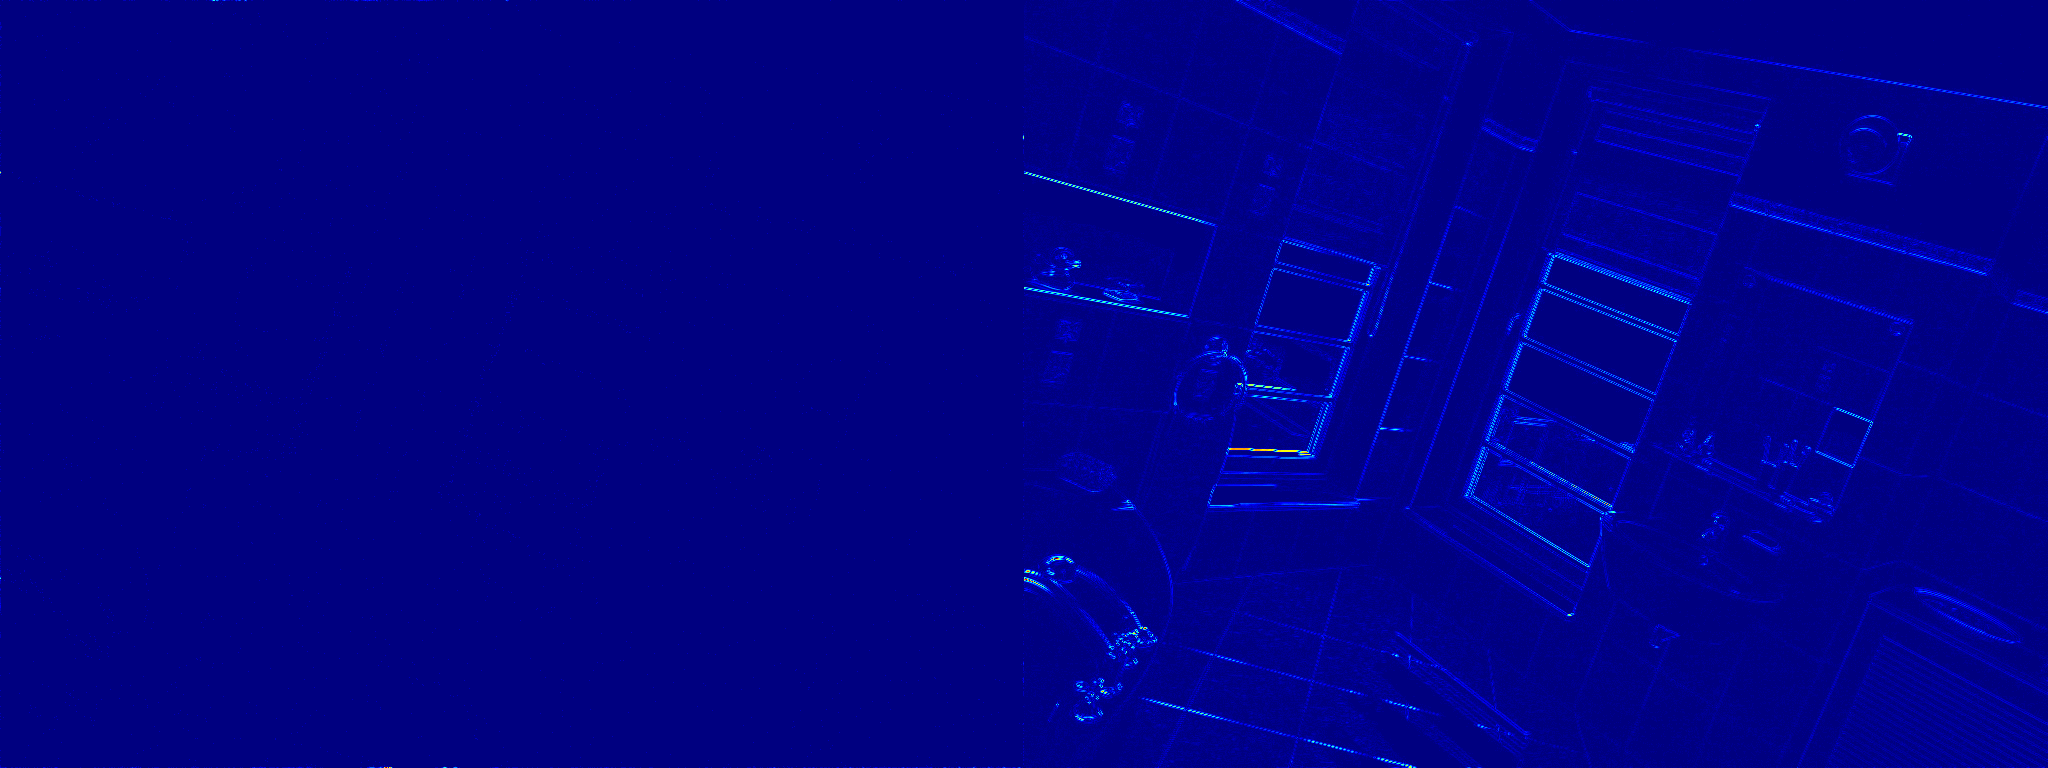
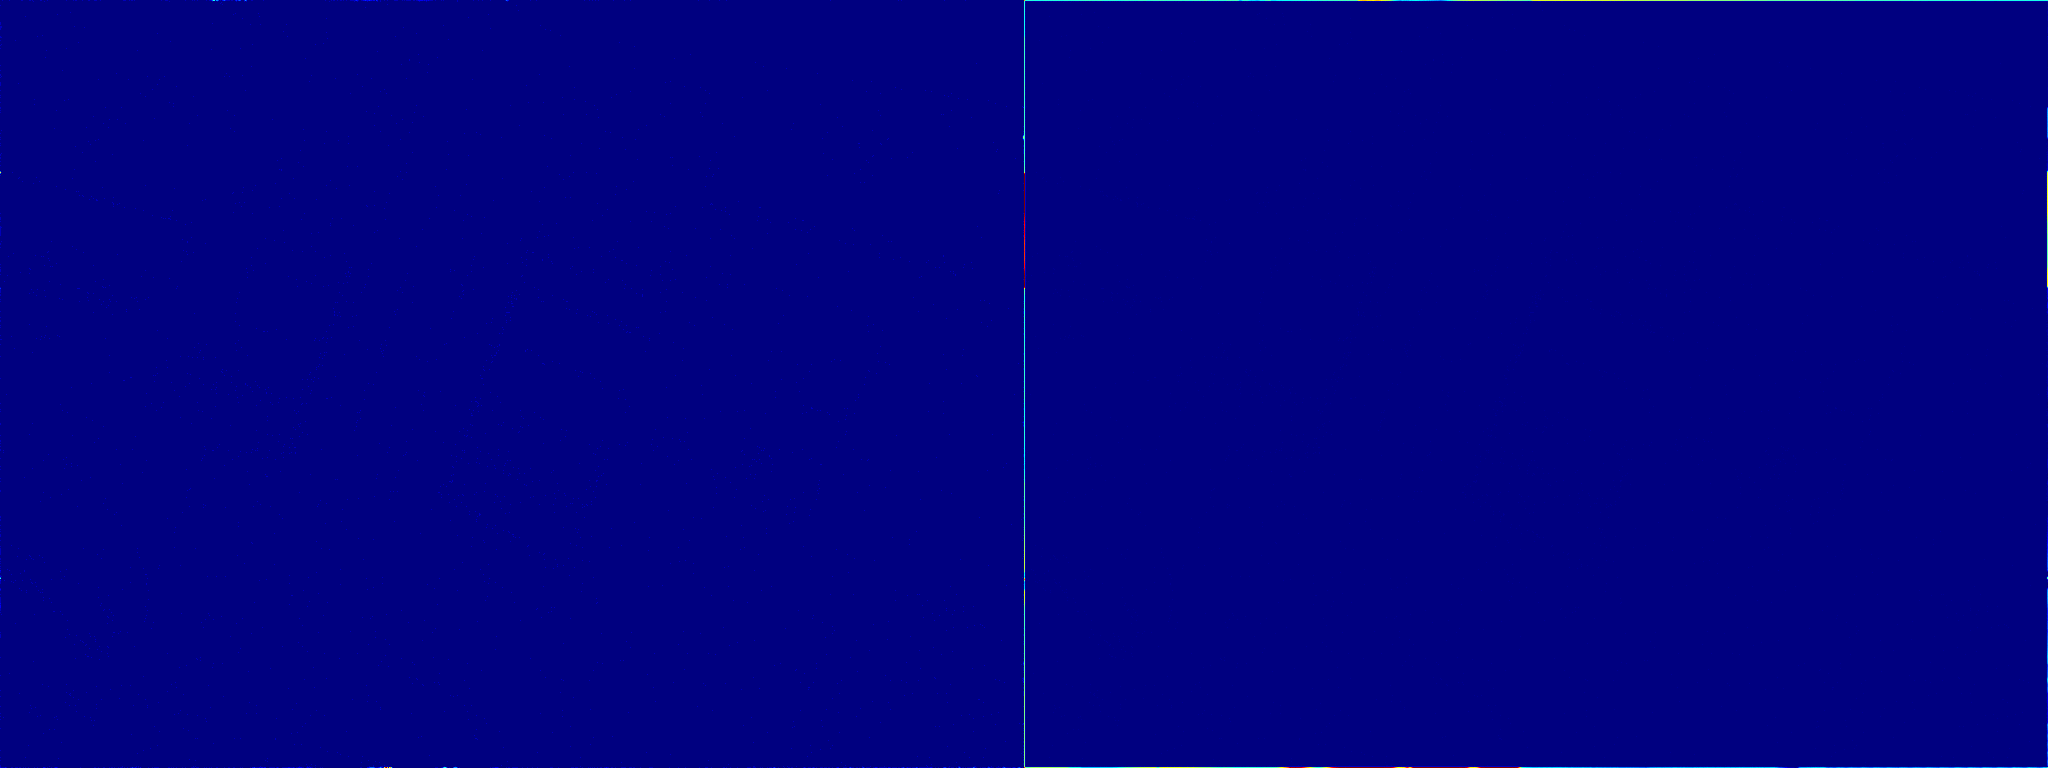
Replace Fast Conv with Separable Conv

diff --git a/src/separable_conv2d.cpp b/src/separable_conv2d.cpp
@@ -1,0 +1,112 @@
+//
+// Created by ibaig on 12/30/2022.
+//
+
+#include "separable_conv2d.h"
+#include "vector"
+
+void copy_sum(float *sum, unsigned char *out, int row, int width) {
+    auto row_pixels = row * width;
+    for (int i = 0; i < width; ++i)
+    {
+        out[row_pixels + i] = static_cast<unsigned char>(sum[i]+ 0.5f);
+        sum[i] = 0;
+    }
+}
+
+void vertical_conv(const float *tmp, float *sum,
+                   const std::vector<float>& kernel,
+                   int k, int kernel_center,
+                   int row, int width)
+{
+    auto row_pixels = (k-kernel_center+row) * width;
+    for (int i = 0; i < width; ++i)
+    {
+        sum[i] += tmp[row_pixels + i] * kernel[k];
+    }
+}
+
+void separable_conv2d(const unsigned char* in, unsigned char* out,
+                      int width, int height,
+                      const std::vector<float>& kernel)
+{
+    int kernel_size = static_cast<int>(kernel.size());
+    auto kernel_center = kernel_size >> 1;
+    auto side = kernel_size - kernel_center - 1;
+    auto end_index = width - kernel_center;
+
+    auto *tmp = new float[width * height];
+    auto *sum = new float[width];
+
+    for (int j = 0; j < height; ++j)
+    {
+        auto row_pixels = j * width;
+
+#pragma omp parallel for reduction(+:temp_sum)
+        // [0, kernel_center - 1]
+        for (int i = 0; i < kernel_center; ++i)
+        {
+            int idx = row_pixels + i;
+            auto offset_idx = idx - kernel_center;
+            auto temp_sum = 0.0f;
+            for (int k = kernel_center - i; k < kernel_size; ++k)
+                temp_sum += static_cast<float>(in[offset_idx + k]) * kernel[k];
+            tmp[idx] = temp_sum;
+        }
+
+#pragma omp parallel for reduction(+:temp_sum)
+        // [kernel_center, width - kernel_center - 1]
+        for (int i = kernel_center; i < end_index; ++i)
+        {
+            int idx = row_pixels + i;
+            auto offset_idx = idx - kernel_center;
+            auto temp_sum = 0.0f;
+            for (int k = 0; k < kernel_size; ++k)
+                temp_sum += static_cast<float>(in[offset_idx + k]) * kernel[k];
+            tmp[idx] = temp_sum;
+        }
+
+#pragma omp parallel for reduction(+:temp_sum)
+        // [width - kernel_center, width - 1]
+        for (int i = end_index; i < width; ++i)
+        {
+            int idx = row_pixels + i;
+            auto offset_idx = idx - kernel_center;
+            auto temp_sum = 0.0f;
+            for (int k = 0; k < kernel_size - (i - end_index); ++k)
+                temp_sum += static_cast<float>(in[offset_idx + k]) * kernel[k];
+            tmp[idx] = temp_sum;
+        }
+    }
+
+    end_index = height - kernel_center;
+    // [0, kCenter - 1]
+    for (int j = 0; j < kernel_center; ++j)
+    {
+        for (int k = kernel_center - j; k < kernel_size; ++k)
+        {
+            vertical_conv(tmp, sum, kernel, k, kernel_center, j, width);
+        }
+        copy_sum(sum, out, j, width);
+    }
+
+    // [kCenter, height - kCenter - 1]
+    for (int j = kernel_center; j < end_index; ++j)
+    {
+        for (int k = 0; k < kernel_size; ++k)
+        {
+            vertical_conv(tmp, sum, kernel, k, kernel_center, j, width);
+        }
+        copy_sum(sum, out, j, width);
+    }
+
+    // [endIndex, dataSizeY - 1]
+    for (int j = end_index; j < height; ++j)
+    {
+        for (int k = 0; k < kernel_size - (j - end_index + 1); ++k)
+        {
+            vertical_conv(tmp, sum, kernel, k, kernel_center, j, width);
+        }
+        copy_sum(sum, out, j, width);
+    }
+}

diff --git a/test/test_gaussian_downsampler.cpp b/test/test_gaussian_downsampler.cpp
@@ -27,7 +27,7 @@ cv::Mat test(const std::function<cv::Mat(cv::Mat&)>& gaussian_blur,
     auto end = high_resolution_clock::now();
     auto duration = duration_cast<microseconds>(end - start);
     auto mean_time = duration.count() / static_cast<long>(num_tests);
-    printf("%s: %lld microseconds per call\n", func_name.c_str(), mean_time);
+    printf("%s: %lld ms per call\n", func_name.c_str(), mean_time);
 
     if (show)
     {
@@ -76,25 +76,6 @@ cv::Mat opencv_gaussian_blur(const cv::Mat& gray) {
     return opencv_gaussian_img;
 }
 
-
-cv::Mat fast_gaussian_blur(const cv::Mat& gray) {
-    cv::Mat img_flt;
-    gray.convertTo(img_flt, CV_32F);
-    auto *imagePtr = reinterpret_cast<float *>(img_flt.data);
-
-    cv::Mat out_img;
-    out_img = cv::Mat::zeros(gray.size(), CV_32F);
-    auto *outPtr = reinterpret_cast<float *>(out_img.data);
-
-    gaussian_downsampler->downsample(imagePtr,
-                                     outPtr,
-                                     gray.cols, gray.rows);
-
-    cv::Mat out_img_8u;
-    out_img.convertTo(out_img_8u, CV_8U);
-    return out_img_8u;
-}
-
 cv::Mat pytlsd_gaussian_blur(const cv::Mat& gray) {
 
     cv::Mat img_flt;
@@ -108,7 +89,7 @@ cv::Mat pytlsd_gaussian_blur(const cv::Mat& gray) {
     image->data = imagePtr;
     image->xsize = gray.cols;
     image->ysize = gray.rows;
-    auto out_image_double = gaussian_sampler(image, 1., 0.6f/0.8f);
+    auto out_image_double = gaussian_sampler(image, 1.f, 0.6f/0.8f);
     out_img.data = reinterpret_cast<uchar *>(out_image_double->data);
 
     cv::Mat out_img_8u;
@@ -118,16 +99,28 @@ cv::Mat pytlsd_gaussian_blur(const cv::Mat& gray) {
     return out_img_8u;
 }
 
+cv::Mat sepconv_gaussian_blur(const cv::Mat& gray) {
+    auto *imagePtr = reinterpret_cast<unsigned char *>(gray.data);
+    cv::Mat out_img;
+    out_img = cv::Mat::zeros(gray.size(), CV_8U);
+    auto *outPtr = reinterpret_cast<unsigned char *>(out_img.data);
+
+    gaussian_downsampler->downsample(imagePtr,
+                                     outPtr,
+                                     gray.cols, gray.rows);
+    return out_img;
+}
+
 
 int main() {
-    auto num_test = 10;
+    auto num_test = 100;
     auto opencv_gaussian_img = test(opencv_gaussian_blur,
                                     "opencv_gaussian_blur",
                                     num_test);
 
     gaussian_downsampler = std::make_unique<GaussianDownsampler>(0.8f, 0.6f);
-    auto fast_gaussian_img = test(fast_gaussian_blur,
-                                  "fast_gaussian_blur",
+    auto sepconv_gaussian_img = test(sepconv_gaussian_blur,
+                                  "sepconv_gaussian_blur",
                                   num_test);
 
     auto pytlsd_gaussian_img = test(pytlsd_gaussian_blur,
@@ -139,9 +132,9 @@ int main() {
                                  "Pytlsd Vs Opencv",
                                  true);
 
-    auto diff2 = draw_image_diff(fast_gaussian_img,
+    auto diff2 = draw_image_diff(sepconv_gaussian_img,
                                 opencv_gaussian_img,
-                                "Fast Vs Opencv",
+                                "SepConv Vs Opencv",
                                 true);
 
     cv::Mat combined_diff;

diff --git a/src/GaussianDownsampler.cpp b/src/GaussianDownsampler.cpp
@@ -1,21 +1,42 @@
 //
 // Created by ibaig on 12/30/2022.
 //
+#include "cmath"
+#include "algorithm"
 #include "GaussianDownsampler.h"
-#include "fast_gaussian_blur.h"
+#include "separable_conv2d.h"
 
-using Kernel = std::vector<std::vector<float>>;
+using Kernel = std::vector<float>;
 
 GaussianDownsampler::GaussianDownsampler(float scale,
                                          float sigma_scale) {
     this->scale = scale;
-    this->sigma_scale = sigma_scale;
     this->sigma = scale < 1.0 ? sigma_scale / scale : sigma_scale;
+    this->kernel = get_gaussian_kernel(sigma);
 }
 
-void GaussianDownsampler::downsample(float *in_img, float *out_img, int width, int height) {
+void GaussianDownsampler::downsample(const unsigned  char *in_img,
+                                     unsigned  char *out_img,
+                                     int width, int height) {
+    separable_conv2d(in_img, out_img, width, height, kernel);
+}
 
-    fast_gaussian_blur(in_img, out_img, width, height, sigma);
+std::vector<float> GaussianDownsampler::get_gaussian_kernel(float sigma) {
+    const double sprec = 3;
+    const auto h =  (int)(std::ceil(sigma * std::sqrt(2 * sprec * std::log(10.0))));
+    auto kernel_size = 1 + 2 * h;
+
+    Kernel kernel(kernel_size);
+    auto sum = 0.0;
+    for (int i = 0; i < kernel_size; ++i) {
+        kernel[i] = std::exp(-0.5 * std::pow((i - h) / sigma, 2));
+        sum += kernel[i];
+    }
+
+    for(auto &v : kernel)
+        v /= sum;
+
+    return kernel;
 }
 
 

diff --git a/src/GaussianDownsampler.h b/src/GaussianDownsampler.h
@@ -11,15 +11,15 @@
 class GaussianDownsampler {
 public:
     explicit GaussianDownsampler(float scale=0.8, float sigma_scale=0.6);
-    void downsample(float *in_img, float *out_img, int width, int height);
+    void downsample(const unsigned  char *in_img, unsigned  char *out_img, int width, int height);
 
 private:
     float scale;
-    float sigma_scale;
     float sigma;
+    std::vector<float> kernel;
 
 private:
-
+    static std::vector<float> get_gaussian_kernel(float sigma);
 };
 
 

diff --git a/src/separable_conv2d.h b/src/separable_conv2d.h
@@ -1,0 +1,15 @@
+//
+// Created by ibaig on 12/30/2022.
+//
+
+#ifndef TEST_SEPARABLE_CONV2D_H
+#define TEST_SEPARABLE_CONV2D_H
+
+
+#include <vector>
+
+void separable_conv2d(const unsigned char* in, unsigned char* out,
+                      int width, int height,
+                      const std::vector<float>& kernel);
+
+#endif //TEST_SEPARABLE_CONV2D_H

diff --git a/README.md b/README.md
@@ -10,8 +10,8 @@
 ## Gaussian Blur Comparison
 ![Gaussian blur](https://github.com/ibaiGorordo/lsd_modern/blob/main/doc/img/gaussian_blur_diff.png)
 
-- **pytlsd C++** (left diff with Opencv): 60 ms per call
-- **Fast Gaussian blur** (right diff with Opencv): 41 ms per call
+- **pytlsd C++** (left diff with Opencv): 47 ms per call
+- **Separable Convolution Gaussian blur** (right diff with Opencv): 15 ms per call
 - **Opencv C++**: 6 ms per call
 
 # Ref:
